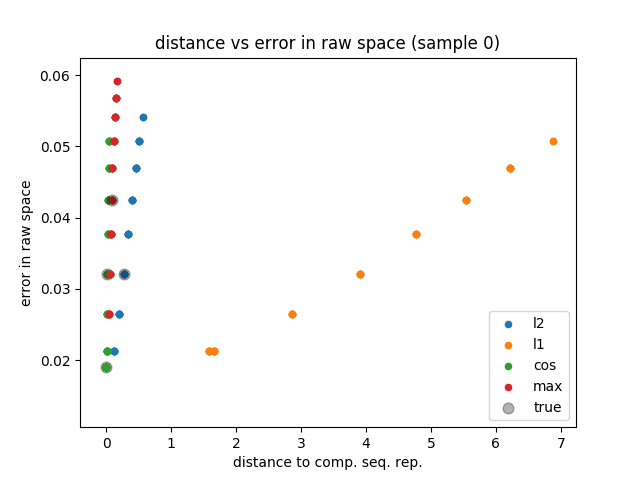
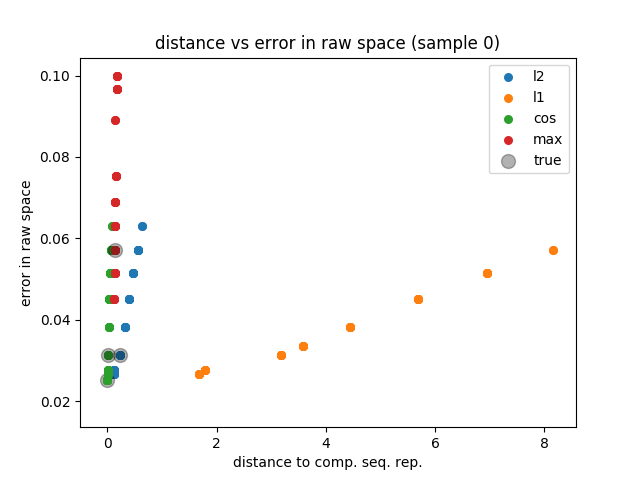
added

diff --git a/RNN/utils/association_evaluation.py b/RNN/utils/association_evaluation.py
@@ -513,11 +513,11 @@ def plot_best_distance_function(model, data, data_iterator, n=50):
 			for k in range(n):
 				errors[k] = metrics.__pose_seq_error(preds[k,:,:-model.label_dim],data[idx[j],:,:-model.label_dim])
 				dists[k] = metrics.__distance__(ls[w_i[k]], z_true, mode=i)
-			plt.scatter(dists, errors, label=dist_name, s=20)
+			plt.scatter(dists, errors, label=dist_name, s=30)
 			if i == N-1:
-				plt.scatter(dists[:1], errors[:1], c='black', alpha='0.3', s=60, label='true')
+				plt.scatter(dists[:1], errors[:1], c='black', alpha='0.3', s=100, label='true')
 			else:
-				plt.scatter(dists[:1], errors[:1], c='black', alpha='0.3', s=60)
+				plt.scatter(dists[:1], errors[:1], c='black', alpha='0.3', s=100)
 
 		plt.legend()
 		plt.xlabel('distance to comp. seq. rep.')
@@ -533,9 +533,9 @@ def plot_best_distance_function(model, data, data_iterator, n=50):
 			dists = [metrics.__distance__(z, z_ref, mode=i) for z in [zs[i], z_true]]
 			plt.scatter([dists], [errors], label=dist_name, s=30)
 			if i == N-1:
-				plt.scatter(dists[-1:], errors[-1:], c='black', alpha='0.3', s=20, label='true')
+				plt.scatter(dists[-1:], errors[-1:], c='black', alpha='0.3', s=100, label='true')
 			else:
-				plt.scatter(dists[-1:], errors[-1:], c='black', alpha='0.3', s=60)
+				plt.scatter(dists[-1:], errors[-1:], c='black', alpha='0.3', s=100)
 
 		plt.legend()
 		plt.xlabel('distance to part. seq. rep.')
